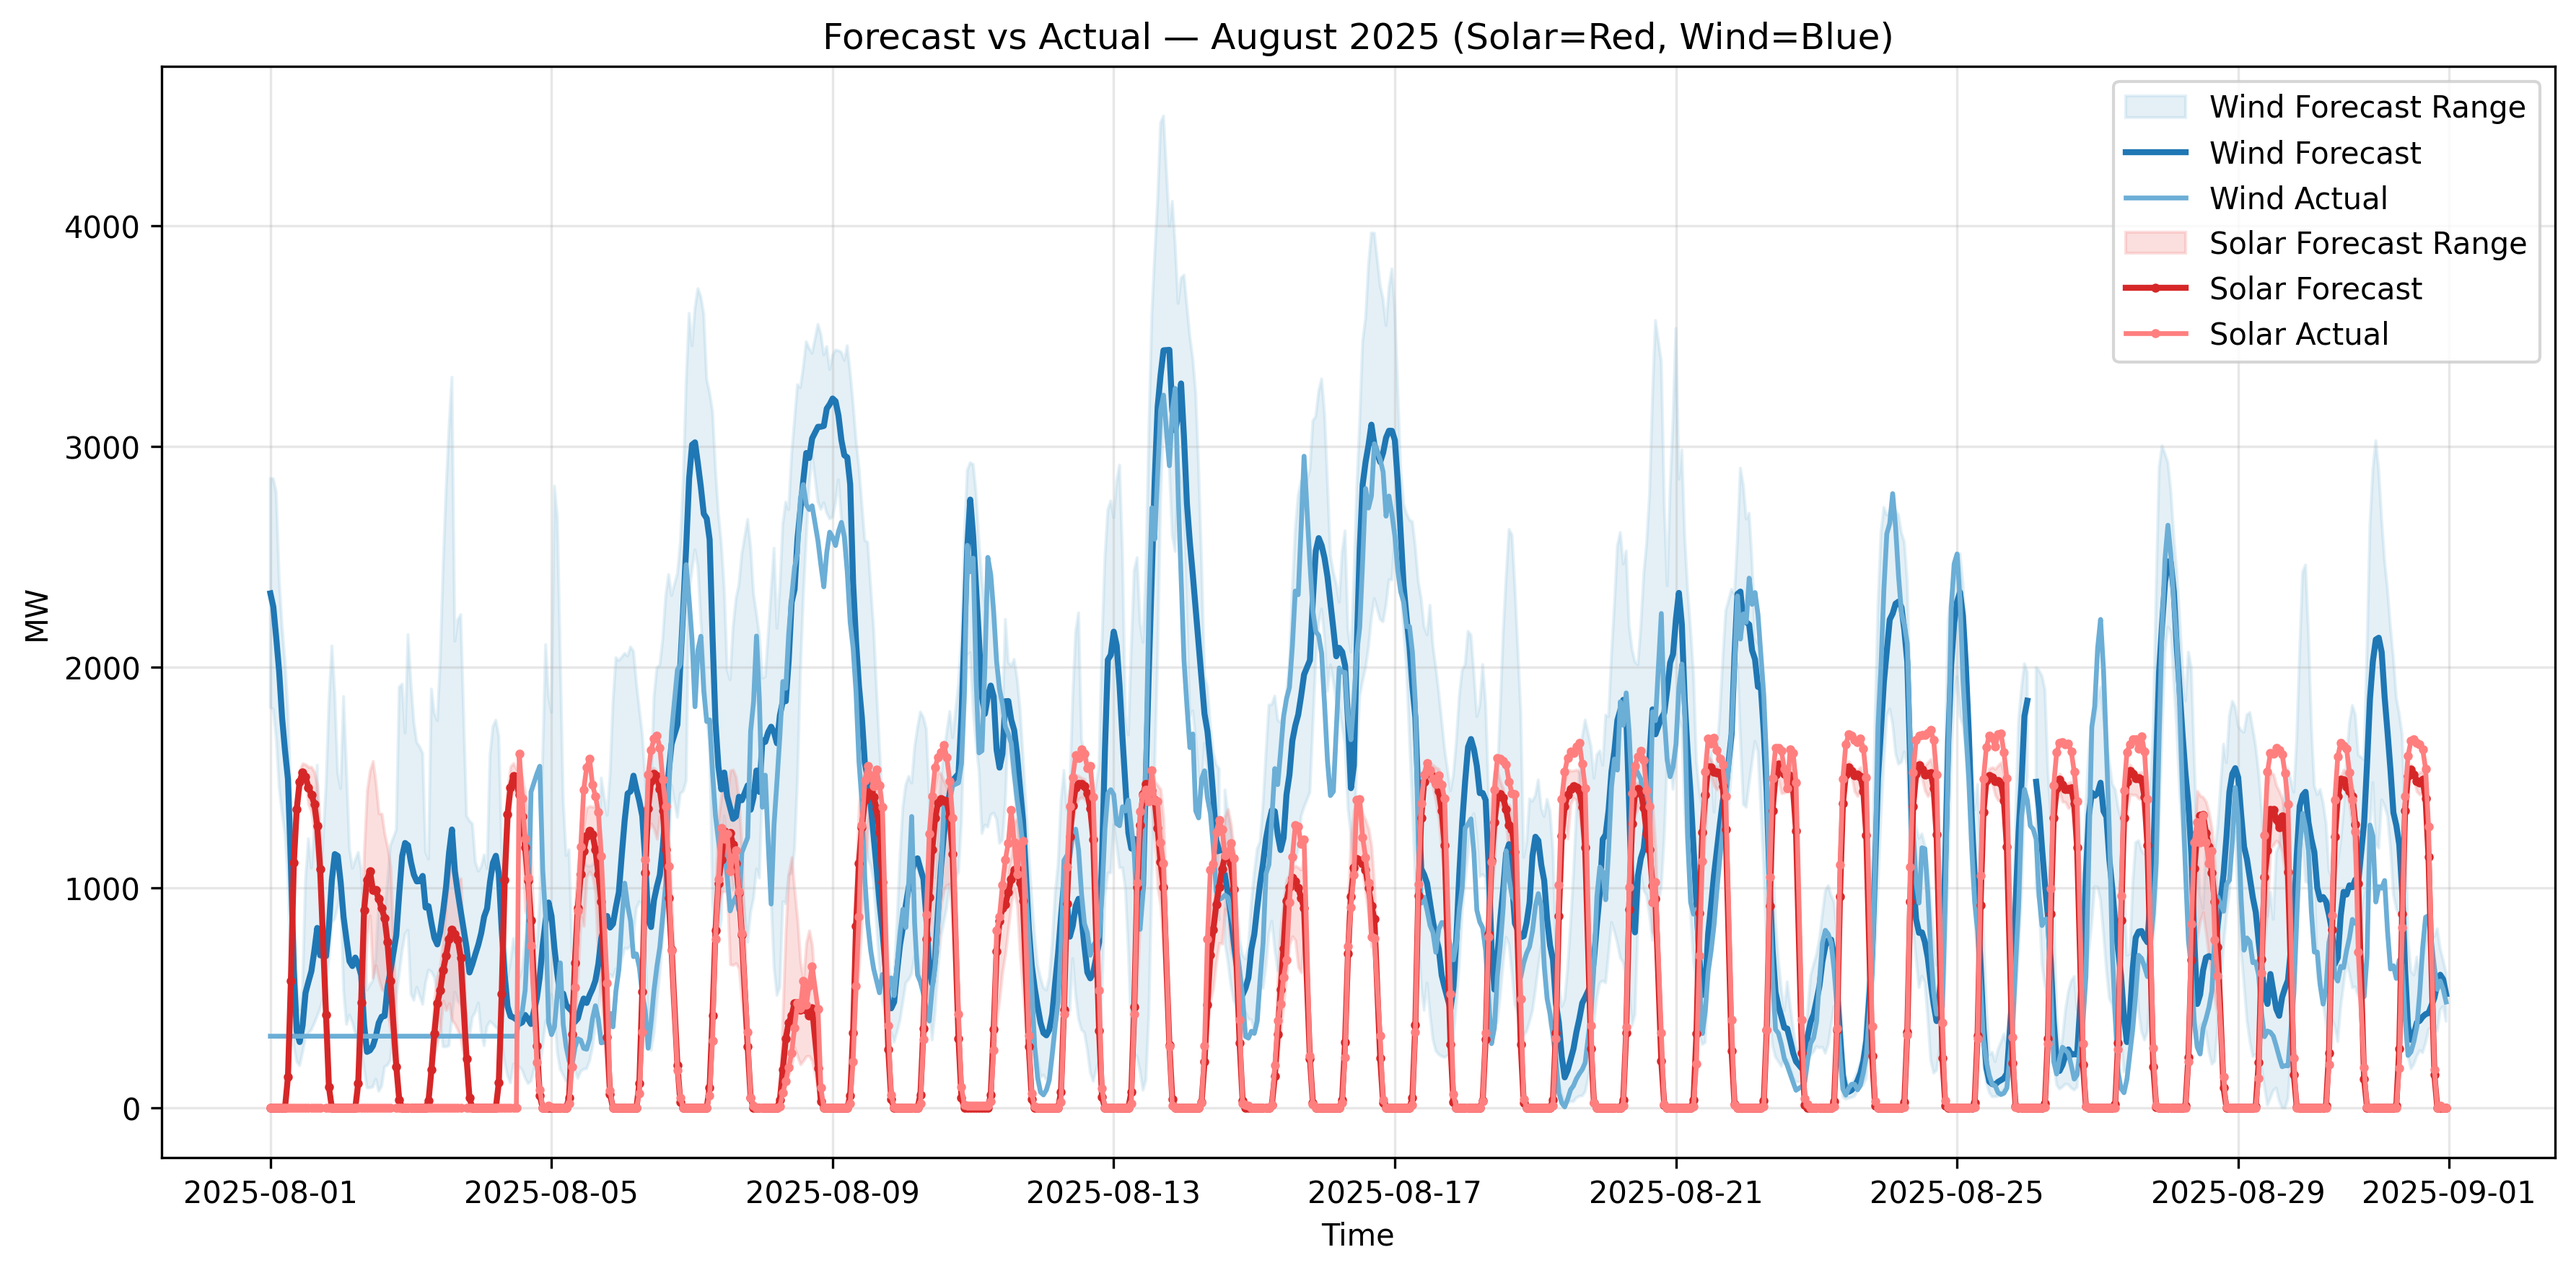
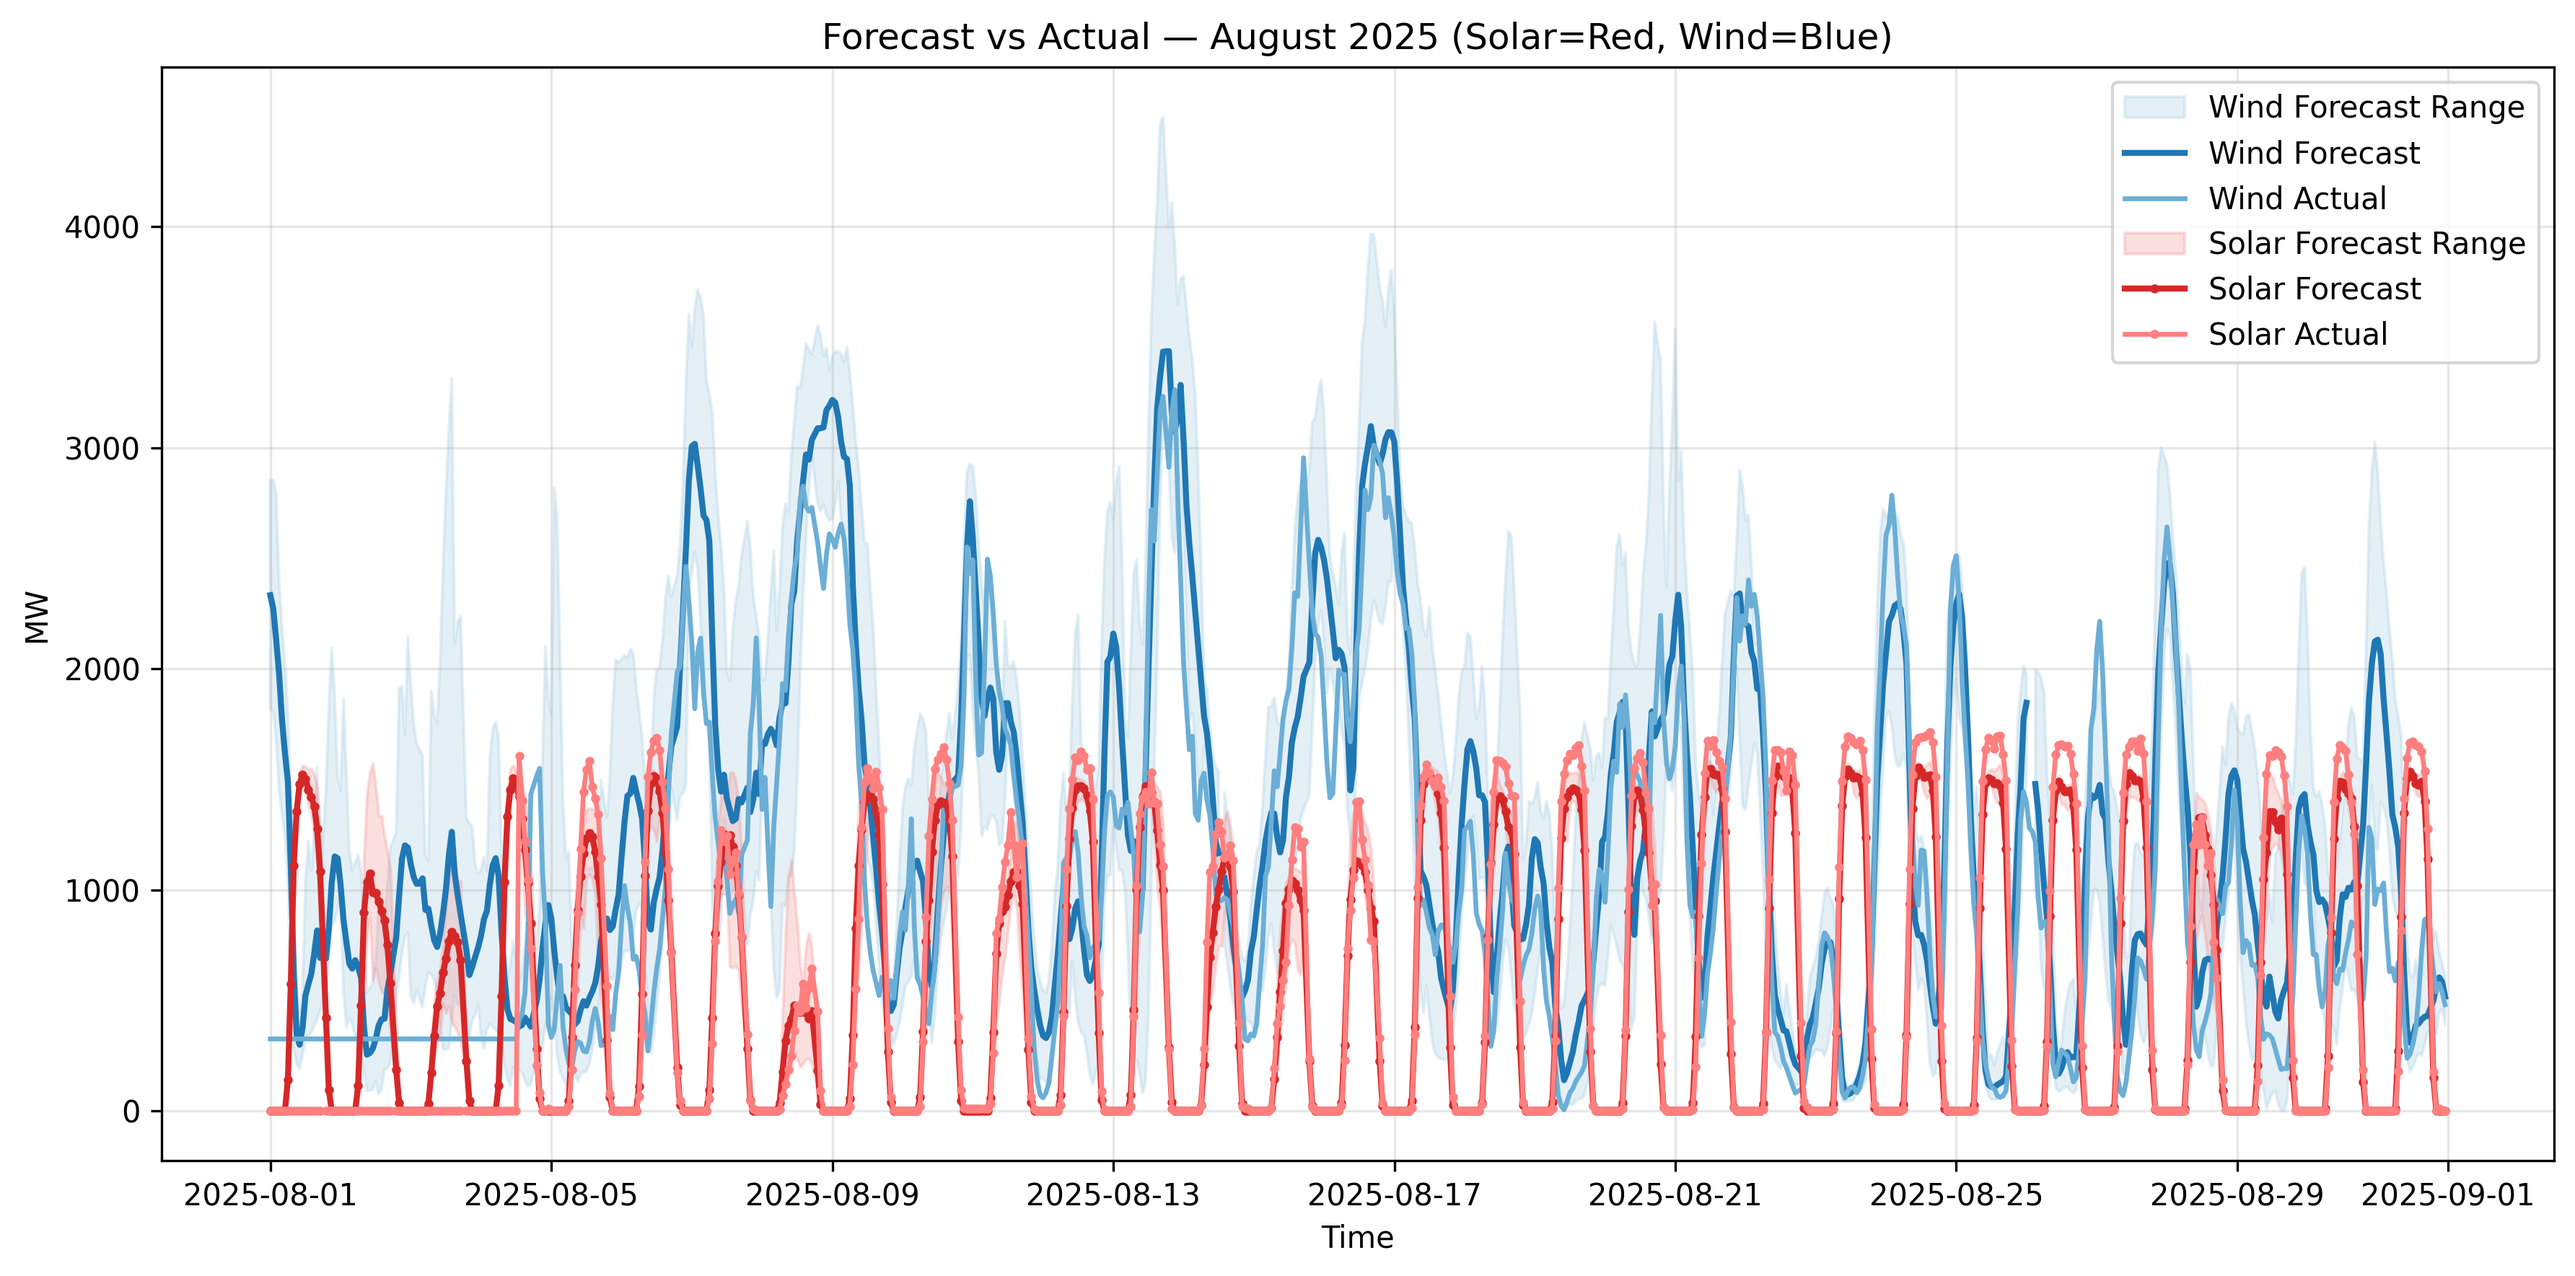
feat: final

Changed region(s): [[0.311, 0.0312, 0.7153, 0.0623], [0.9019, 0.2181, 0.933, 0.2493], [0.9019, 0.0623, 0.933, 0.0935]]

diff --git a/docs/final_analysis_report.md b/docs/final_analysis_report.md
@@ -46,6 +46,8 @@ The analysis aimed to evaluate:
   Red (Solar) and Blue (Wind) series confirm that wind predictions are closer to actual outputs.
 - **Graph 2 — Total Supply & 24h Rolling Std:**  
   The orange volatility curve peaks align with dips in forecast performance.
+- **Graph 3 — Stability Comparison:**  
+  Highlights differences in supply stability between solar and wind, supporting operational monitoring.
 
 ---
 
@@ -53,8 +55,8 @@ The analysis aimed to evaluate:
 
 1. **Wind energy** demonstrates higher predictability and lower volatility than solar.
 2. **Solar forecast models** are more sensitive to transient atmospheric changes.
-3. **System-level volatility** affects forecast reliability; when rolling Std rises, accuracy declines.
-4. Integrating **meteorological and historical volatility features** could improve forecast precision.
+3. Stability comparison reveals important operational differences between solar and wind generation.
+4. Enhanced monitoring of system-level volatility can improve forecast reliability and support decision-making.
 
 ---
 
@@ -63,24 +65,25 @@ The analysis aimed to evaluate:
 - Enhance short-term forecasting models using localized weather data (irradiance, wind speed).
 - Introduce ensemble methods combining statistical and machine-learning models.
 - Expand rolling-window volatility tracking for operational alerting and risk management.
-- Develop dashboards combining forecast accuracy, coverage, and volatility trends.
+- Develop dashboards combining forecast accuracy, coverage, and volatility trends for continuous monitoring.
 
 ---
 
 ## 5. Deliverables Summary
 
-| Output          | Description                     | Path                                          |
-| --------------- | ------------------------------- | --------------------------------------------- |
-| Graph 1         | Forecast vs Actual (Solar/Wind) | `figures/graph1_forecast_vs_actual.png`       |
-| Graph 2         | Total Supply & Rolling Std      | `figures/graph2_total_supply_variability.png` |
-| Combined Figure | Assignment 2 Final Figure       | `figures/assignment2_final.png`               |
-| Metrics CSV     | Daily MAE/MAPE/Coverage         | `analysis/metrics_aug2025.csv`                |
-| This Report     | Analysis Findings               | `docs/final_analysis_report.md`               |
+| Output      | Description                        | Path                                                                        |
+| ----------- | ---------------------------------- | --------------------------------------------------------------------------- |
+| Graph 1     | Forecast vs Actual (Solar/Wind)    | `figures/graph1_forecast_vs_actual.png`                                     |
+| Graph 2     | Total Supply & Rolling Std         | `figures/graph2_total_supply_variability.png`                               |
+| Graph 3     | Stability Comparison               | `figures/stability_comparison.png`                                          |
+| Metrics CSV | Hourly and Daily MAE/MAPE/Coverage | `analysis/metrics_hourly_aug2025.csv`, `analysis/metrics_daily_aug2025.csv` |
+| This Report | Analysis Findings                  | `docs/final_analysis_report.md`                                             |
 
 ---
 
 **Conclusion:**
 
 > Wind forecast accuracy exceeded solar in August 2025.  
+> Stability comparison underscores the importance of operational monitoring for managing supply variability.  
 > Forecast errors increased during high variability periods, emphasizing the need for volatility-aware prediction models.  
-> Overall, Alberta’s renewable generation forecasting exhibited good performance with scope for refinement in solar forecasting.
+> Overall, Alberta’s renewable generation forecasting exhibited good performance with opportunities to enhance solar forecasting and system stability monitoring.
